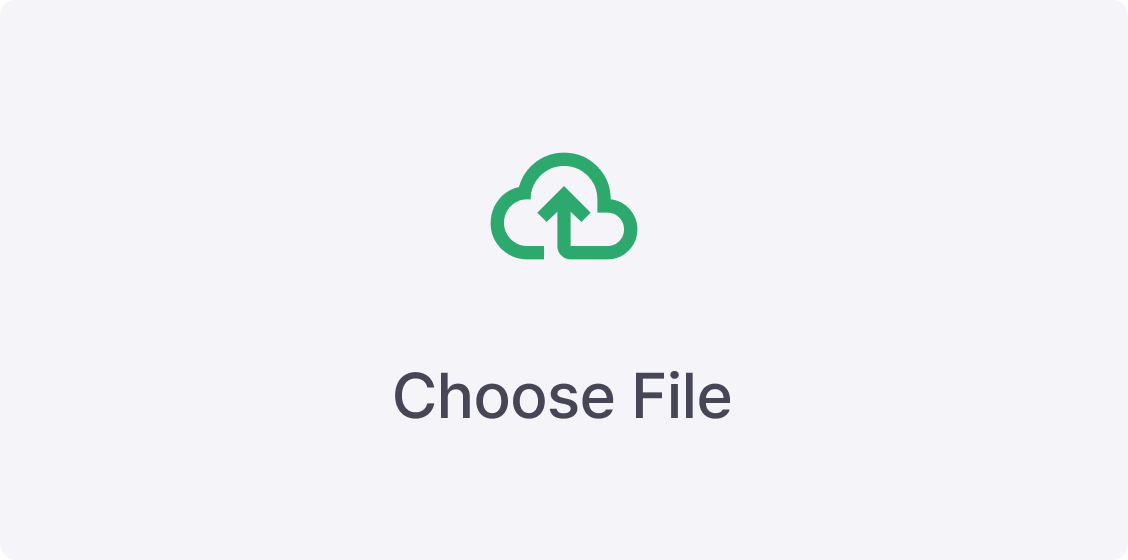
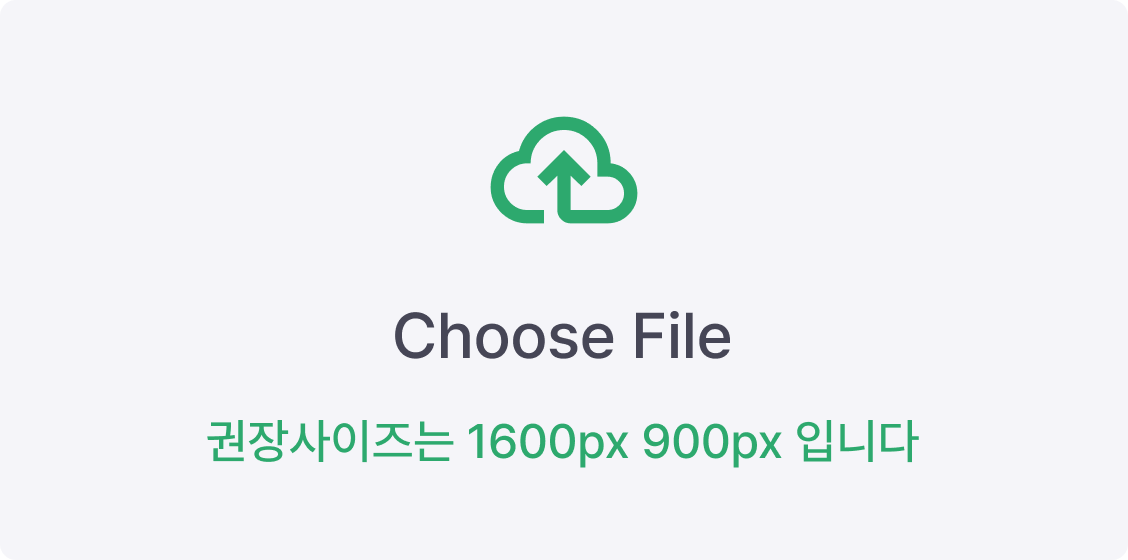
프로젝트명, 프로젝트 설명 수정

Changed region(s): [[0.1862, 0.5464, 0.8378, 0.85], [0.4344, 0.2125, 0.5895, 0.4857]]

diff --git a/create_project/create_project.html b/create_project/create_project.html
@@ -14,6 +14,9 @@
     <link rel="icon" type="image/x-icon" href="../src/img/favicon.ico" />
     <link rel="stylesheet" href="../common/header.css" />
     <link rel="stylesheet" href="../common/footer.css" />
+    <link rel="stylesheet" href="path/to/assets/content-styles.css" type="text/css">
+    <link rel="stylesheet" href="path/to/assets/content-styles.css" type="text/css">
+
 
     <script
       src="https://kit.fontawesome.com/e00cbd24a5.js"
@@ -172,7 +175,6 @@
               src="../src/img/choose_file_img.png"
               alt=""
             />
-            <p class="upload_size_alert">권장사이즈는 1600px 900px 입니다</p>
             <input type="file" class="file_upload_input" accept="image/*" />
           </label>
         </section>
@@ -207,16 +209,99 @@
       </main>
     </div>
     <footer include-html="../common/footer.html"></footer>
-
-    <script src="./ckeditor5/build/ckeditor.js"></script>
+    <script src="https://cdn.ckeditor.com/ckeditor5/39.0.1/classic/ckeditor.js"></script>
+    <!-- <script src="./ckeditor5/build/ckeditor.js"></script> -->
     <script type="text/javascript">
         // editor 
         ClassicEditor
             .create(document.querySelector("#editor1"))
             .then(editor => {
                 const textLines = [
-                    "📢",
-                    "프로젝트 파악이 쉽도록 한줄정도의 소개를 적어주세요!",
+                    `
+                    📢
+                    프로젝트 파악이 쉽도록 한줄정도의 소개를 적어주세요!
+                    <br />
+                    (예시)
+                    <br />
+                    “사이드 프로젝트 접근이 어려운 새싹 수강생들을 위한 프로젝트 매칭 플랫폼”
+                    <br />
+                      PIUM(Project Insight User Matching)
+                    <br /><br />
+                    👩🏻💻 [프로젝트 소개]
+                    <br />
+                    프로젝트 배경, 목적, 타겟 등 자유롭게 적어주세요!
+                    <br />
+                    (예시)
+                    <br />
+                    “기존에 존재하는 프로젝트 매칭 플랫폼은 경험자들 뿐인데
+                    <br />
+                    새싹 수강생들 같은 초심자들은 프로젝트를 어디서 어떻게 찾지?”
+                    <br />
+                    <br />
+                    새싹 수강생들은 다른 분야에서 진입한 사람들이 많고
+                    <br />
+                    팀프로젝트에 대한 부담과 걱정이 있을 수 밖에 없습니다.
+                    <br />
+                    또한 새싹 교육과정은 기획/디자인/개발 등 분야가 나뉘어서 배우고
+                    <br />
+                    하나의 캠퍼스에서 팀프로젝트를 자발적으로 모으기 힘들다고 생각하여 
+                    <br />
+                    팀프로젝트의 진입장벽을 낮추고 이를 통해 협업을 배우고 함께 성장할 수 있도록 지원하는 것입니다.
+                    <br /><br />
+                    📌 [주요기능]
+                    <br />
+                    대략적인 아이디어만 있는 상태라면 생략가능합니다.
+                    <br />
+                    (예시)
+                    <br />
+                    &#183; 프로젝트 생성페이지
+                    <br />
+                    &#183; 멘토-멘티 매칭서비스
+                    <br />
+                    -> 프로젝트 진행시 각 직무별로 최소 한 명의 멘토와 멘티를 둠.
+                    <br />
+                      해당 시스템에선 멘토라고 해도 같은 수강생이므로 기술적인 전문성보다
+                      <br />
+                      지식을 나누고 함께 성장하는 경험 강조 & 수업을 따라가는데 문제가 없는 정도라면 멘티 지원을 권유
+                    <br />
+                    &#183; 랜덤매칭 서비스
+                    <br />
+                    -> 팀 선택이 어려운 수강생들을 위해 랜덤으로 팀을 매칭해주는 서비스
+                    <br />
+                    &#183; 새싹 캠퍼스별 공간 예약 서비스
+                    <br />
+                    ->구글폼을 통해 각 캠퍼스별 스터디 공간, 날짜, 이용시간 예약가능
+                    <br /><br />
+                    😊 [이런 분이라면 더 좋아요]
+                    <br />
+                    (예시)
+                    <br />
+                    &#183; 책임감을 갖고 열정적으로 하실 수 있는 분
+                    <br />
+                    &#183; 프로젝트 리드 경험이 있거나 가능하신 분
+                    <br />
+                    &#183; 서비스를 장기적으로 함께 이끌어나가고 싶은 분
+                    <br />
+                    &#183; 사용자 경험을 우선하는 프로젝트를 진행하고 싶은 분
+                    <br />
+                    &#183; 아이디어, 의견 등을 적극적으로 제안해주실 수 있는 분
+                    <br />
+                    &#183; 타인을 배려한 커뮤니케이션이 가능하신 분
+                    <br /><br />
+                    📌 [프로젝트 진행 방식]
+                    <br />
+                    (예시)
+                    <br />
+                    &#183; 주 1-2회 온/오프라인 병행 
+                    <br />
+                      (온라인 : zoom,slack,Discord) (오프라인 : 각 새싹 캠퍼스 이용)
+                    <br />
+                    &#183; 팀원들이 모두 모인 후 조율 가능합니다!
+                    <br />
+                    &#183; 협업툴 : Zoom, Slack, Notion, Figma, Discord
+                    <br /><br />
+                    📌 [프로젝트 기간]
+                    `
                 ];
 
                 const textToAdd = textLines.join("<br/><br/>");

diff --git a/common/global_style.css b/common/global_style.css
@@ -190,7 +190,7 @@ input[type='radio'] {
   flex-direction: column;
   border-radius: 4px;
   border: 1px solid var(--color-grayscale-100);
-  overflow: hidden;
+  /* overflow: hidden; */
 }
 
 .thumb {
@@ -472,7 +472,7 @@ input[type='radio'] {
   width: 234px;
   height: auto;
   padding: 24px;
-  z-index: 1;
+  z-index: 9;
   border-radius: 4px;
   border: 1px solid var(--color-grayscale-200);
   background: #fff;

diff --git a/create_project/css/create_project.css b/create_project/css/create_project.css
@@ -184,9 +184,22 @@ section:last-child {
 .input_box .project_desc:focus {
   outline: 1px solid #2da96e;
 }
-.input_box .project_desc::placeholder {
+/* .input_box .project_desc::placeholder {
   
-}
+} */
+/* .project_desc_main_gy600 {
+  color: var(--color-grayscale-600);
+  color: red;
+  font-size: 20px;
+  font-weight: 700;
+} */
+
+
+
+
+
+
+
 
 .container {
   margin: 0 auto;

diff --git a/project_list/css/project_list.css b/project_list/css/project_list.css
@@ -69,7 +69,7 @@ main .filter_wrap .filter_item_list {
   margin-top: 9px;
   position: absolute;
   background-color: #fff;
-  z-index: 9;
+  z-index: 100;
 }
 main .filter_wrap .filter_left .role_filter .filter_item_list {
   width: 304px;
